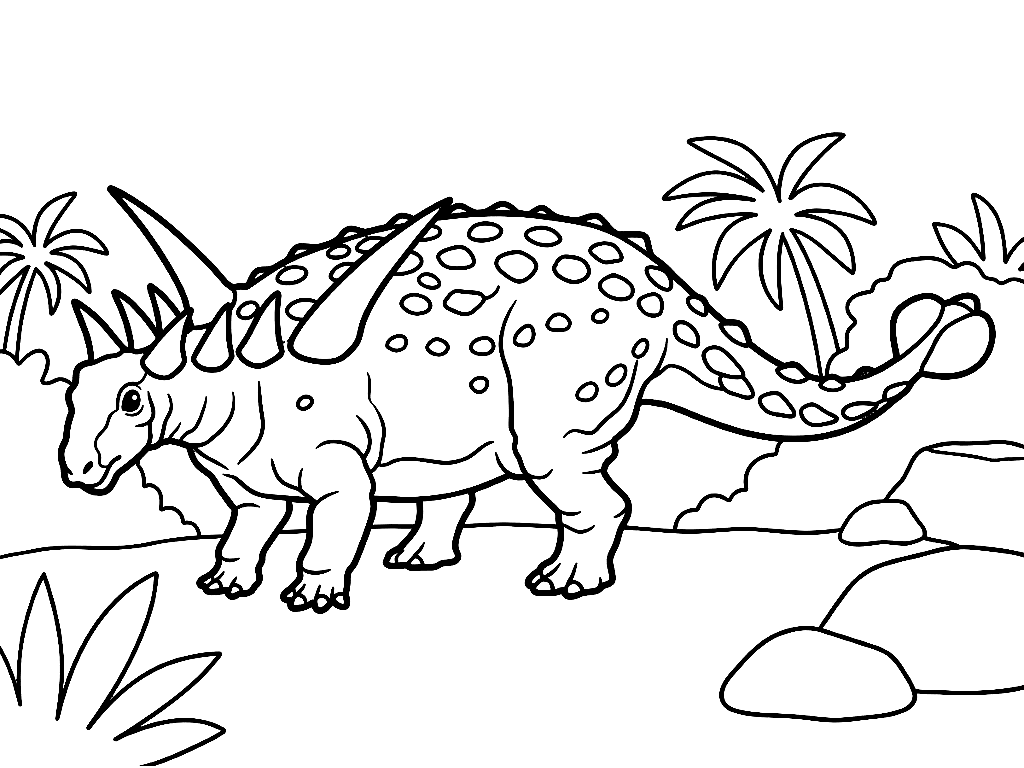
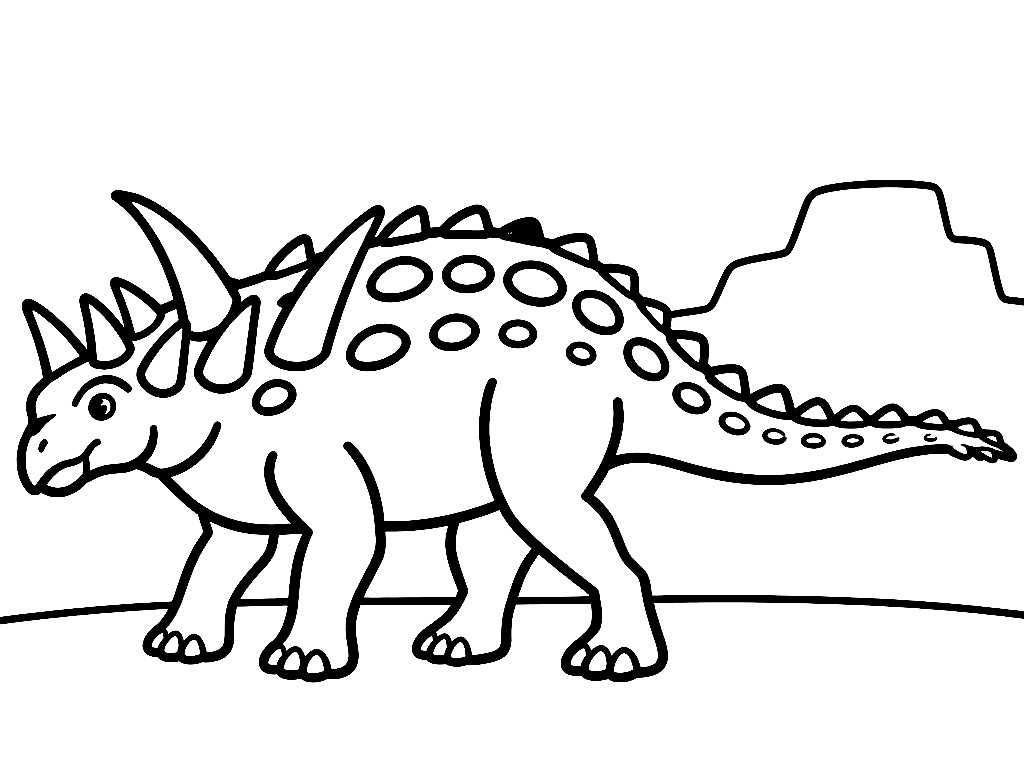
feat: サウロペルタの下絵を添付画像に差し替え
- 添付画像を1024x768・透明背景の黒線だけに変換してコミット
- レベル再判定（★2→★1）をindex.jsonに反映
- 下絵の中身が変わるためsw.jsのCACHE_NAMEを上げる

diff --git a/public/sw.js b/public/sw.js
@@ -6,7 +6,7 @@
 // 共有下絵の png は透明化済みのものへ中身だけ差し替わる（ファイル名は同じ）。
 // cache-first なので、名前を上げて古いキャッシュを捨てないと白背景のままの下絵が
 // 使われ続けてしまう。下絵を差し替えたらここも上げること。
-const CACHE_NAME = "dino-coloring-v15";
+const CACHE_NAME = "dino-coloring-v16";
 const PRECACHE = ["./", "./index.html", "./manifest.webmanifest"];
 
 self.addEventListener("install", (event) => {
